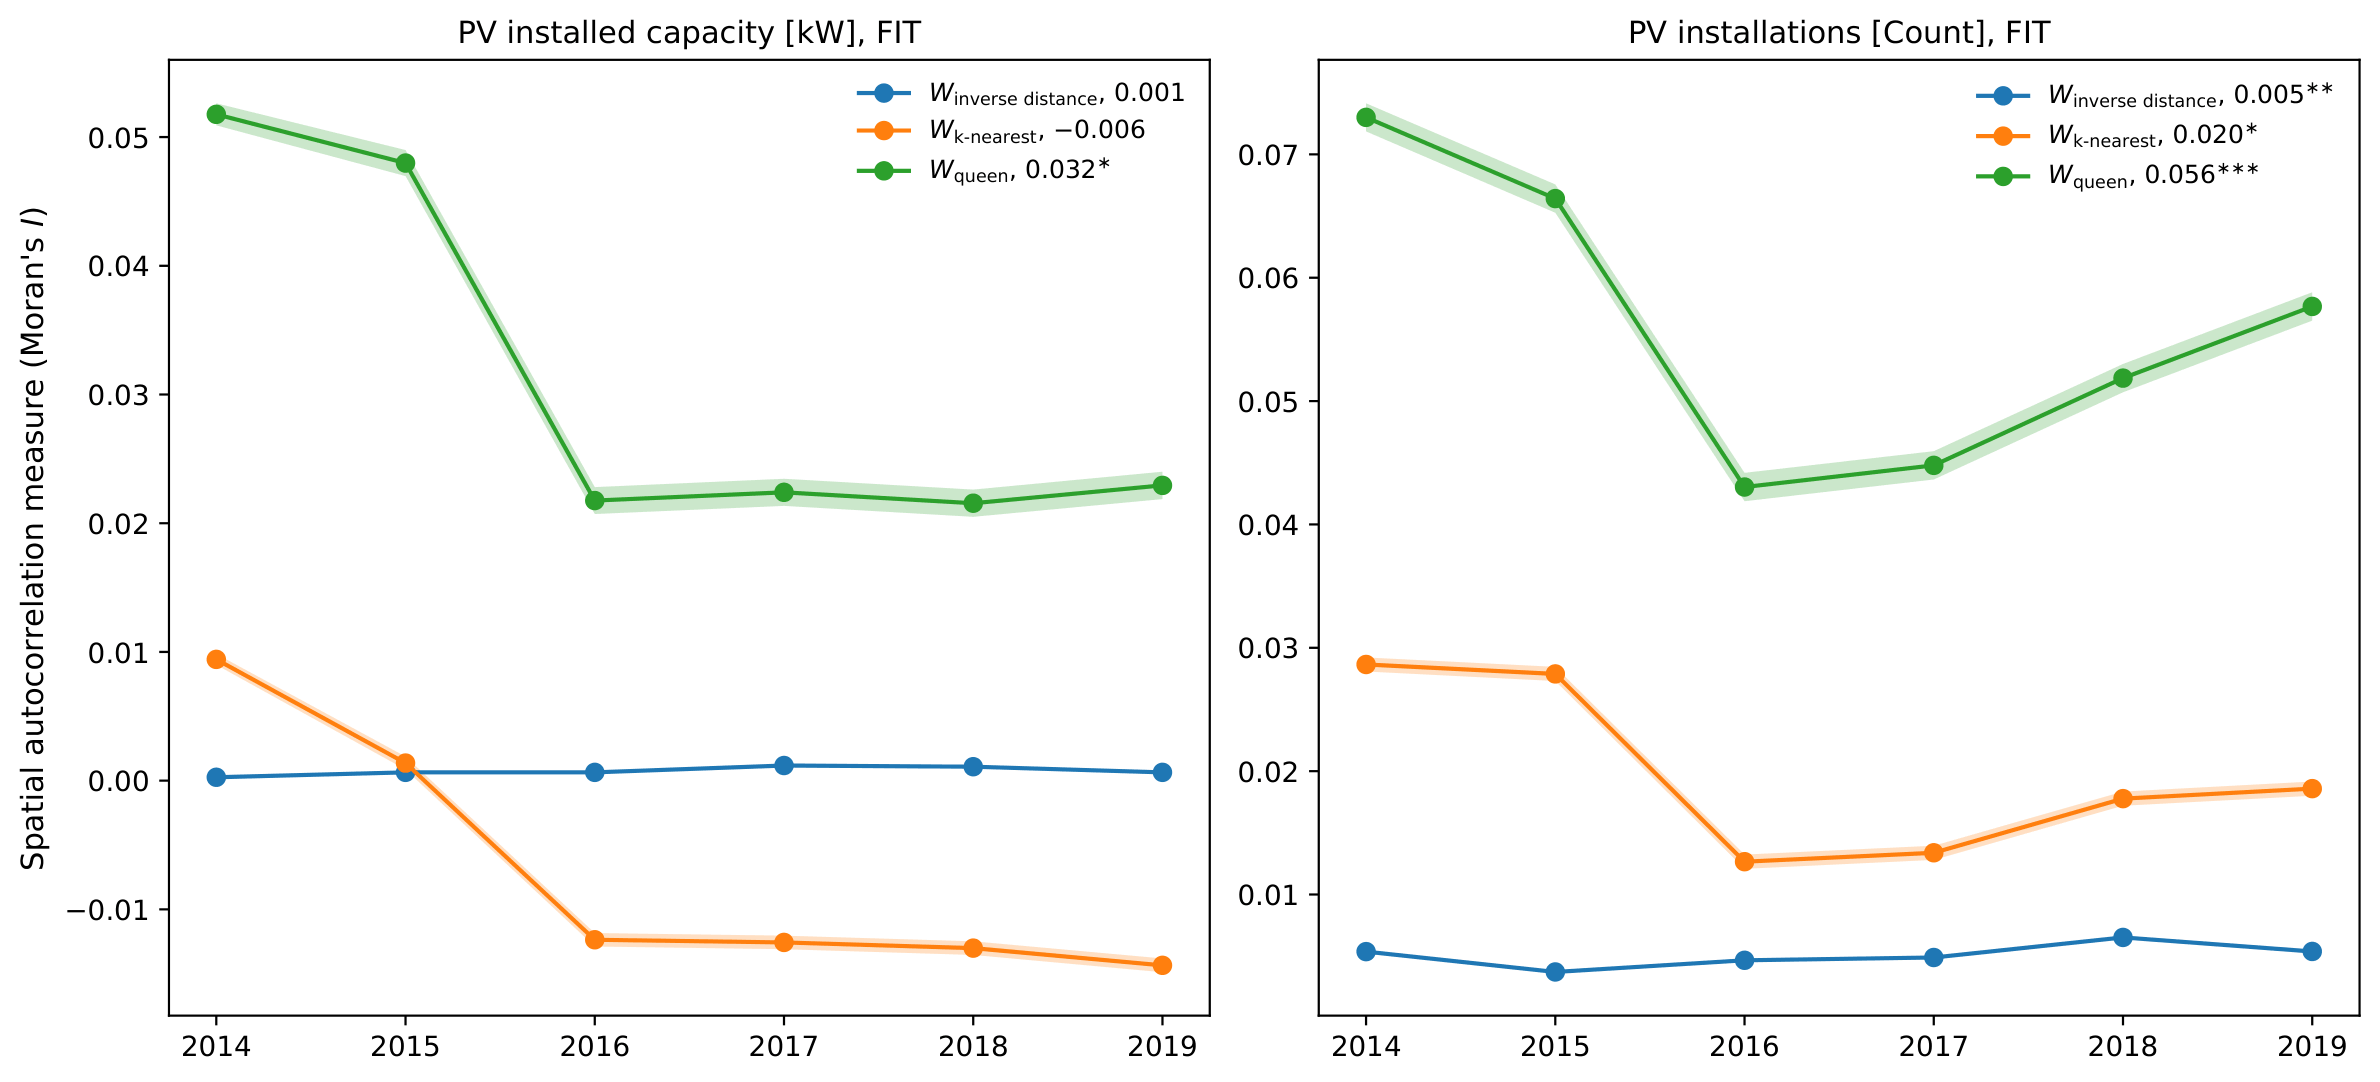
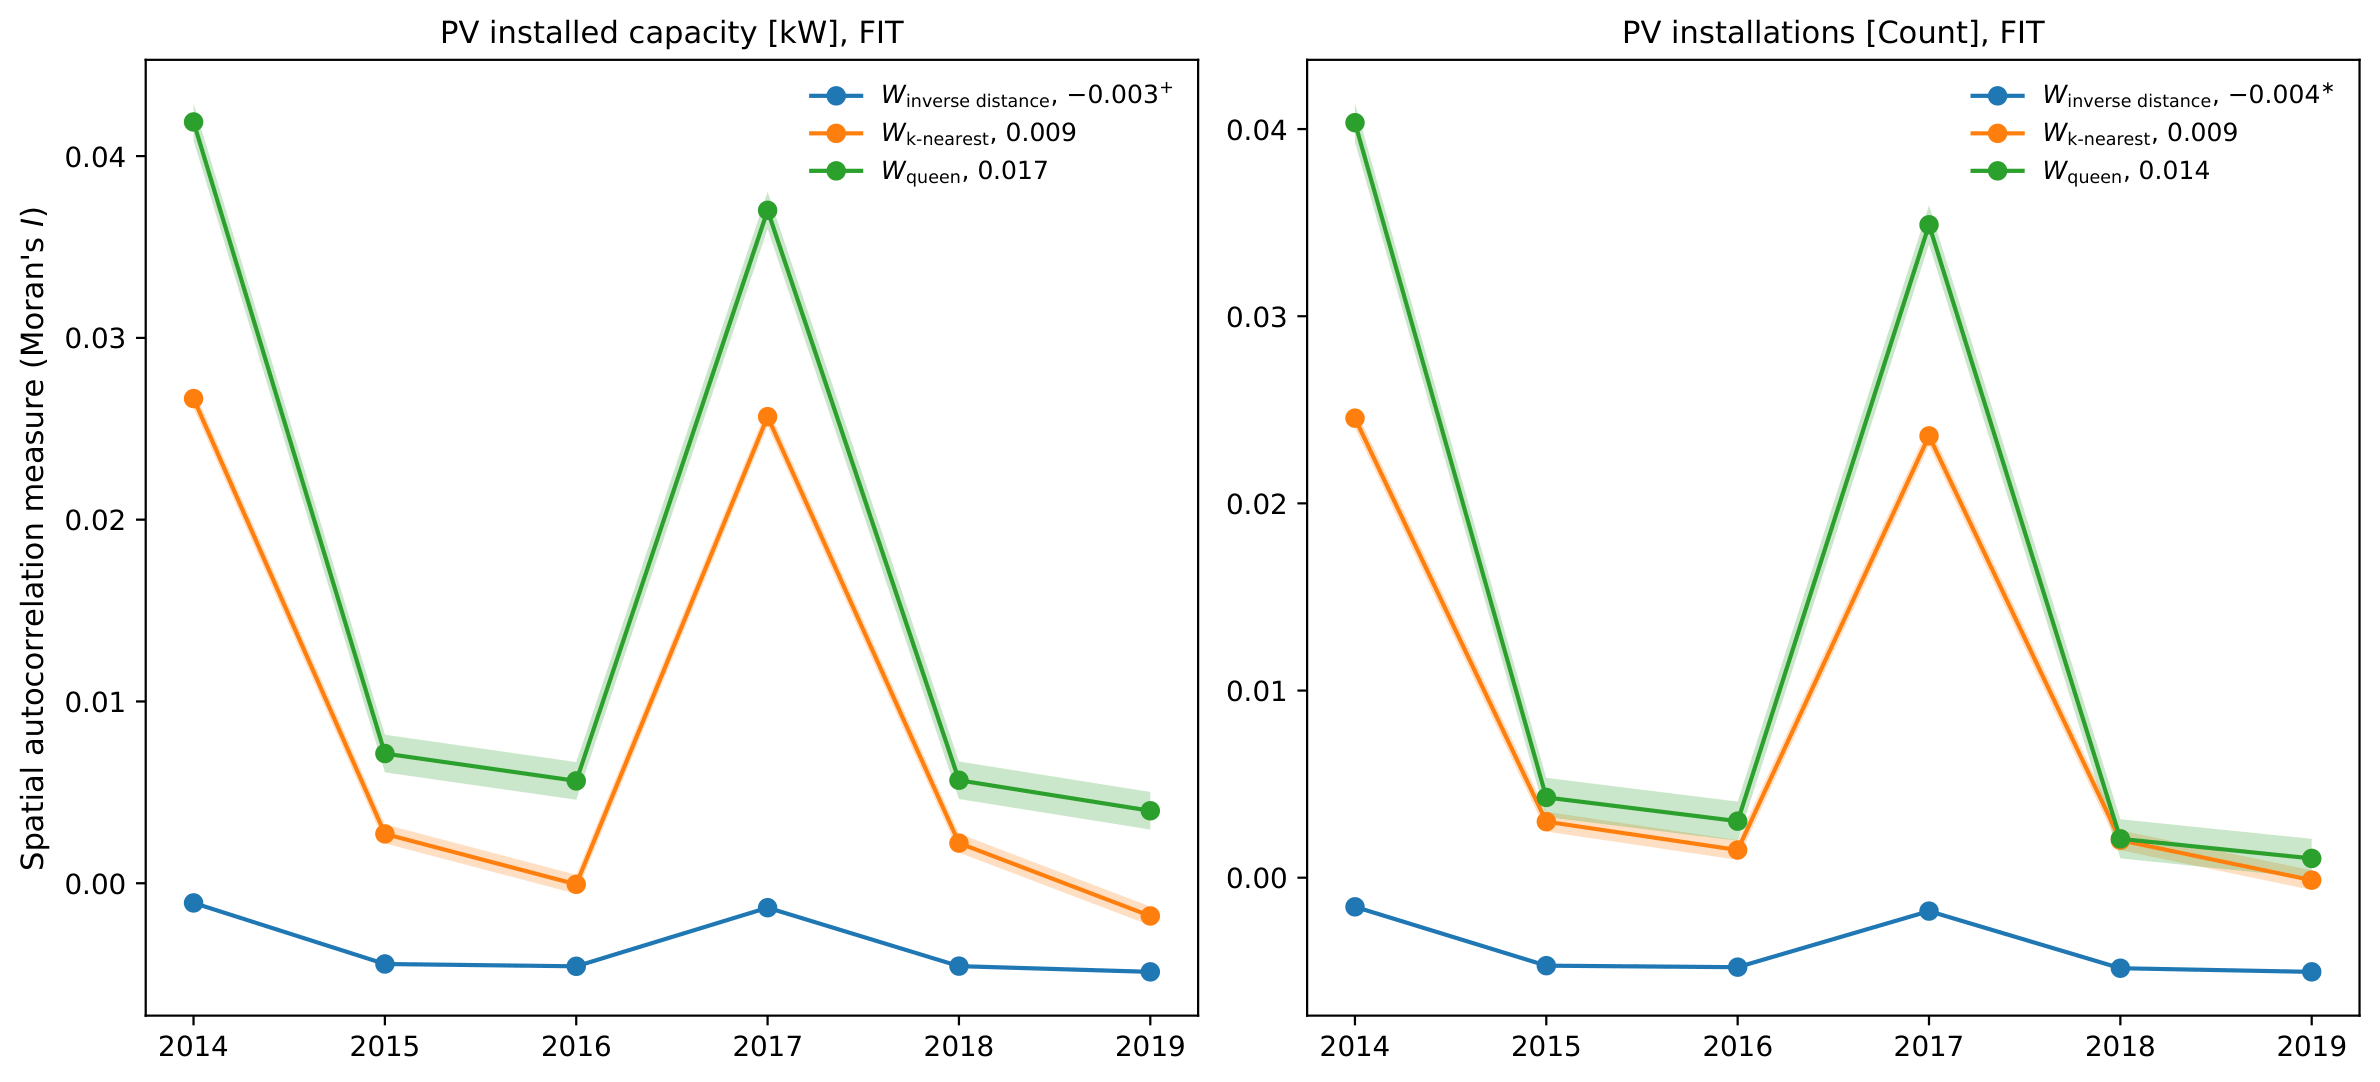
scripts/moran_fit.py

diff --git a/scripts/moran_fit.py b/scripts/moran_fit.py
@@ -71,8 +71,8 @@ def average_morans_i(i, i_var, method="two-tailed"):
 # Global spatial autocorrelation (Moran’s I)
 methods = ["inverse_distance", "k_nearest", "queen"]
 variables = [
-    "pv_cap",
-    "pv_inst",
+    "pv_cap_fit",
+    "pv_inst_fit",
 ]
 
 moran_results_file = os.path.join(results_dir, "moran_results_fit.pickle")
@@ -167,11 +167,11 @@ labels = {
     # "log_pv_cap": "PV installed capacity",
     # "log_pv_inst": "PV installations",
     # "log_pv_cap_per_inst": "PV capacity per installation",
-    "pv_cap": "PV installed capacity [kW], FIT",
-    "pv_inst": "PV installations [Count], FIT",
-    "log_pv_cap": "PV installed capacity [kW], FIT",
-    "log_pv_inst": "PV installations [Count], FIT",
-    "pv_cap_per_inst": "PV capacity per installation",
+    "pv_cap_fit": "PV installed capacity [kW], FIT",
+    "pv_inst_fit": "PV installations [Count], FIT",
+    "log_pv_cap_fit": "PV installed capacity [kW], FIT",
+    "log_pv_inst_fit": "PV installations [Count], FIT",
+    "pv_cap_per_inst_fit": "PV capacity per installation",
     "I_inverse_distance": r"$W_{\text{inverse distance}}$",
     "I_k_nearest": r"$W_{\text{k-nearest}}$",
     "I_queen": r"$W_{\text{queen}}$",
